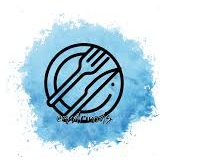
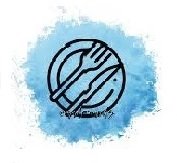
Food Review Database

diff --git a/css/foo.css b/css/foo.css
@@ -48,13 +48,18 @@ body {
 .logo {
     grid-area: logo;
     padding: 0;
-    height: auto;
+    height: 170px;
     width: auto;
+    text-align: center;
+    background-color: #4E658E;
+    border: solid 1px #000;
+
     
 }
 
 .banner {
     grid-area: banner;
+    border: solid 1px #000;
 }
 
 .nav {
@@ -62,13 +67,15 @@ body {
     background-color: #5996C6;  /* Blue Gray */
     font-size: 150%;
     text-align: center;
+    border: solid 1px #000;
 }
 
 .side {
     grid-area: side;
     background-color: #0A3A71;  /* Indigo Dye */
     color: #fff;
-    border: solid 1px #CCC;
+
+
 }
 
 .main {
@@ -81,6 +88,7 @@ body {
 .footer {
     grid-area: footer;
     text-align: right;
+    border: solid 1px #000;
 }
 
 /* -000- End of area styling -000- */
@@ -111,7 +119,7 @@ a:hover{color: darkgray;}    /* white*/
 .img-circle {
     border-radius: 50%;
     max-width: 85%;
-    height: auto;
+    height: 165px;
     box-shadow: 0 6px 20px 0 rgba(0, 0, 0, 0.8);     
 }
 

diff --git a/index.php b/index.php
@@ -6,15 +6,15 @@
             <h2>Welcome</h2>
             
             <p>
-                Reading is one of life's simple pleasures. Please search the database by using the tools in the side bar. Hopefully you will find something that appeals.
+                Eating is one of life's simple pleasures. Please search the database by using the tools in the side bar. Hopefully you will find something that appeals.
             </p>
             
             <p>
-                I must confess to having a love of Science Fiction so many of the books that I have reviewed are from that genre. The plan is to add more reviews to this site as time allows.
+                I must confess to having a love of meaty food so many of the food that I have reviewed are from that genre. The plan is to add more reviews to this site as time allows.
             </p>
             
             <p>
-                If you'd like to suggest a book for review, please feel free to get in touch.
+                If you'd like to suggest a food for review, please feel free to get in touch.
             </p>
             
         </div>    <!-- / main -->

diff --git a/topbit.php b/topbit.php
@@ -42,19 +42,16 @@
 <body>
     
     <div class="wrapper">
-    
 
-
-        
-    <div class="box banner">
 
     <!-- logo image linking to home page goes here -->
        <a href="index.php">
         <div class="box logo"  title="Logo - Click here to go to the Home Page">
         <img class="img-circle" src="Images/download.png" alt="generic logo" />
+        </div>  <!-- / logo -->
+        </a> 
 
-        </div> </a>  <!-- / logo -->
-
+    <div class="box banner">
         
     <h1>Food Database</h1>
     </div>    <!-- / banner -->
